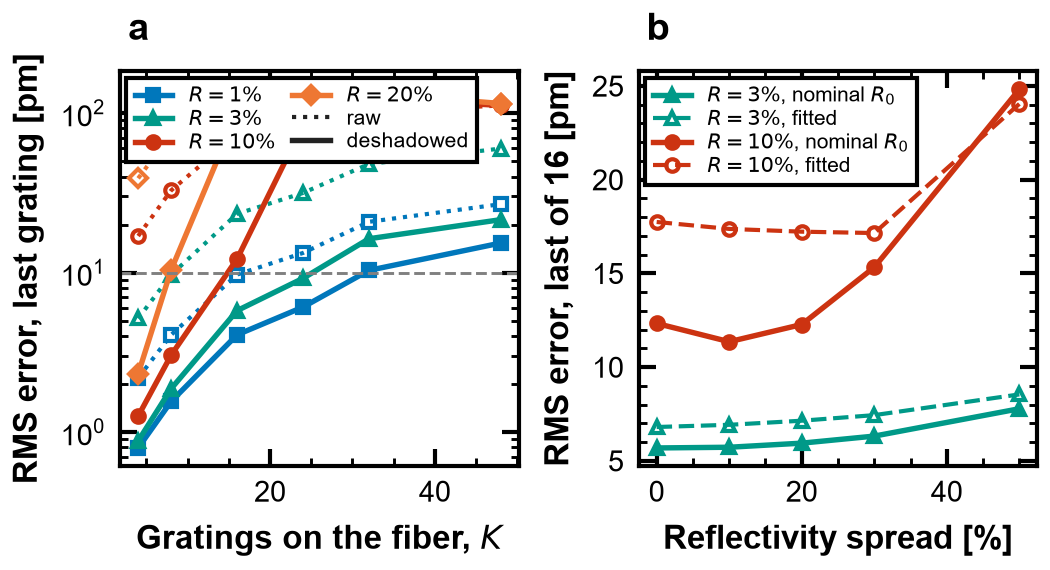
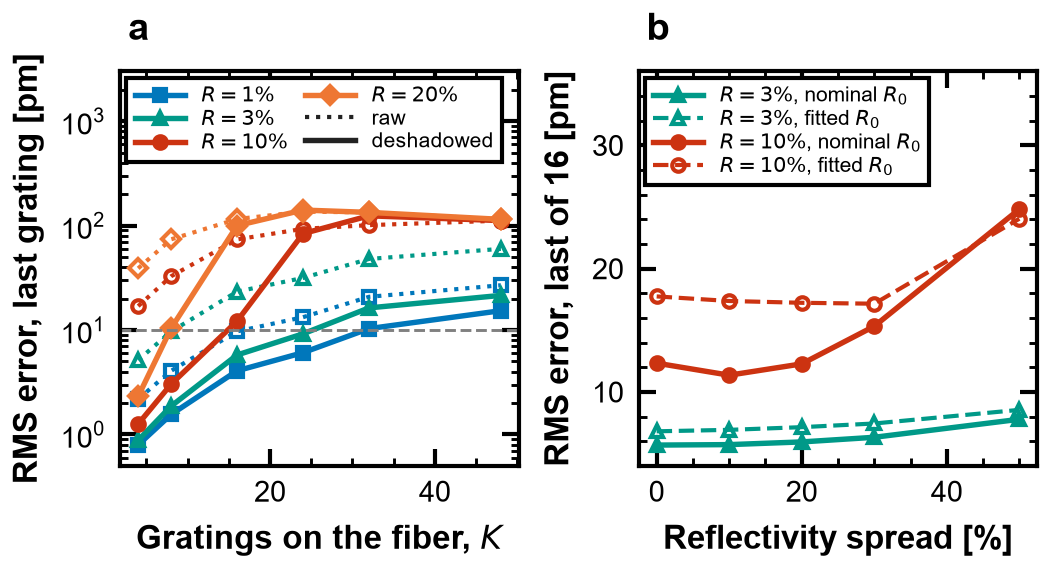
s56: legends clear of the data, fitted R0 label

diff --git a/python_selfcal_cdm/s56_peel_depth.py b/python_selfcal_cdm/s56_peel_depth.py
@@ -116,8 +116,8 @@ if __name__ == '__main__':
         ax[0].semilogy(Ks, pl, mk[R] + '-', color=cols[R], ms=3, lw=1.3, label='$R=%g\\%%$' % (100 * R))
     ax[0].plot([], [], ':', color=FS.C_THEORY, lw=1.0, label='raw'); ax[0].plot([], [], '-', color=FS.C_THEORY, lw=1.3, label='deshadowed')
     ax[0].axhline(10, color='.5', ls='--', lw=.7)
-    ax[0].set(xlabel='Gratings on the fiber, $K$', ylabel='RMS error, last grating [pm]')
-    ax[0].legend(fontsize=5, loc='upper left', handlelength=1.8, borderaxespad=0.3, labelspacing=0.15, ncol=2, columnspacing=0.8)
+    ax[0].set(xlabel='Gratings on the fiber, $K$', ylabel='RMS error, last grating [pm]', ylim=(0.5, 3000))
+    ax[0].legend(fontsize=5, loc='upper left', handlelength=2.4, borderaxespad=0.3, labelspacing=0.15, ncol=2, columnspacing=0.8)
     FS.letter(ax[0], 'a')
     spreads = [0.0, 0.1, 0.2, 0.3, 0.5]
     K = 16
@@ -127,9 +127,9 @@ if __name__ == '__main__':
         e_raw = [last_error(K, R, s, 'raw', NT, 300) for s in spreads]
         print('R=%3.0f%% spread %s: raw %s | peel(R0) %s | peel(fit) %s' % (100 * R, spreads, np.round(e_raw, 1), np.round(e_R0, 1), np.round(e_fit, 1)))
         ax[1].plot(np.array(spreads) * 100, e_R0, mk[R] + '-', color=cols[R], ms=3, lw=1.3, label='$R=%g\\%%$, nominal $R_0$' % (100 * R))
-        ax[1].plot(np.array(spreads) * 100, e_fit, mk[R] + '--', color=cols[R], ms=3, lw=1.0, mfc='none', label='$R=%g\\%%$, fitted' % (100 * R))
-    ax[1].set(xlabel='Reflectivity spread [%]', ylabel='RMS error, last of 16 [pm]')
-    ax[1].legend(fontsize=5, loc='upper left', handlelength=1.8, borderaxespad=0.3, labelspacing=0.15)
+        ax[1].plot(np.array(spreads) * 100, e_fit, mk[R] + '--', color=cols[R], ms=3, lw=1.0, mfc='none', label='$R=%g\\%%$, fitted $R_0$' % (100 * R))
+    ax[1].set(xlabel='Reflectivity spread [%]', ylabel='RMS error, last of 16 [pm]', ylim=(4, 36))
+    ax[1].legend(fontsize=5, loc='upper left', handlelength=2.4, borderaxespad=0.3, labelspacing=0.15)
     FS.letter(ax[1], 'b')
     fig.savefig('figs/fig_s56_peel_depth.pdf'); fig.savefig('figs/fig_s56_peel_depth.png', dpi=300)
     print('saved figs/fig_s56_peel_depth.pdf and .png')
